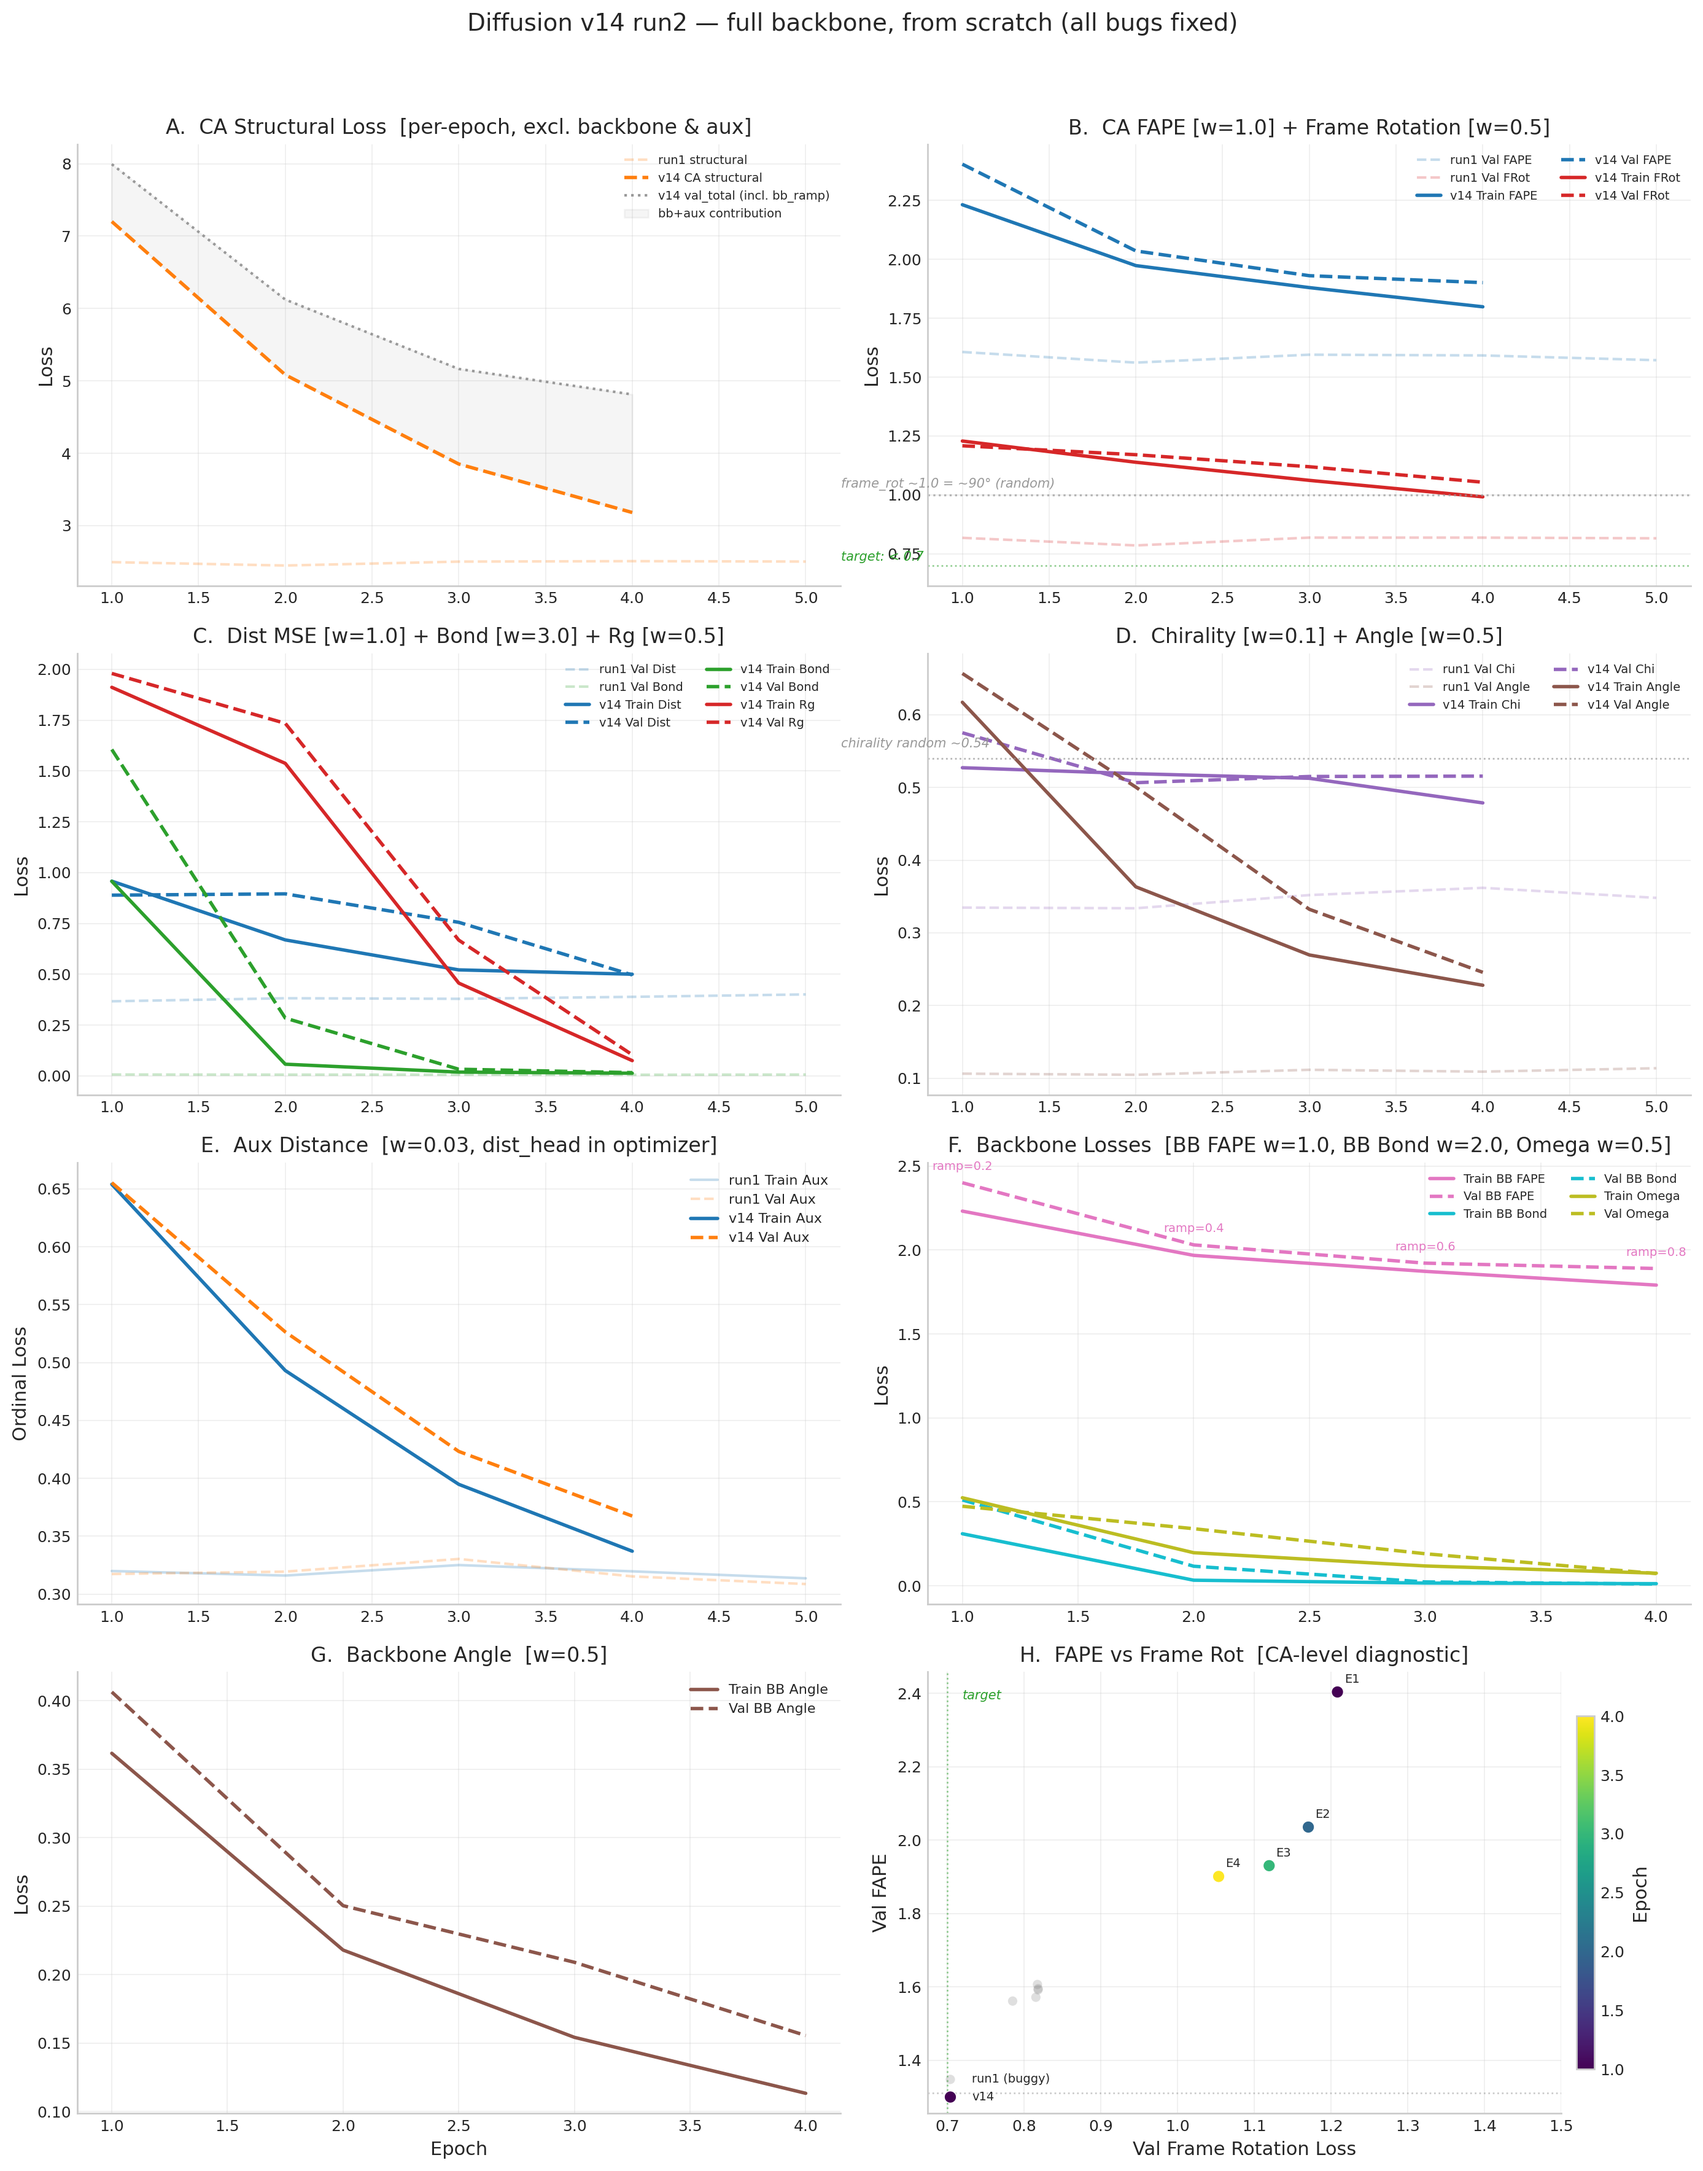
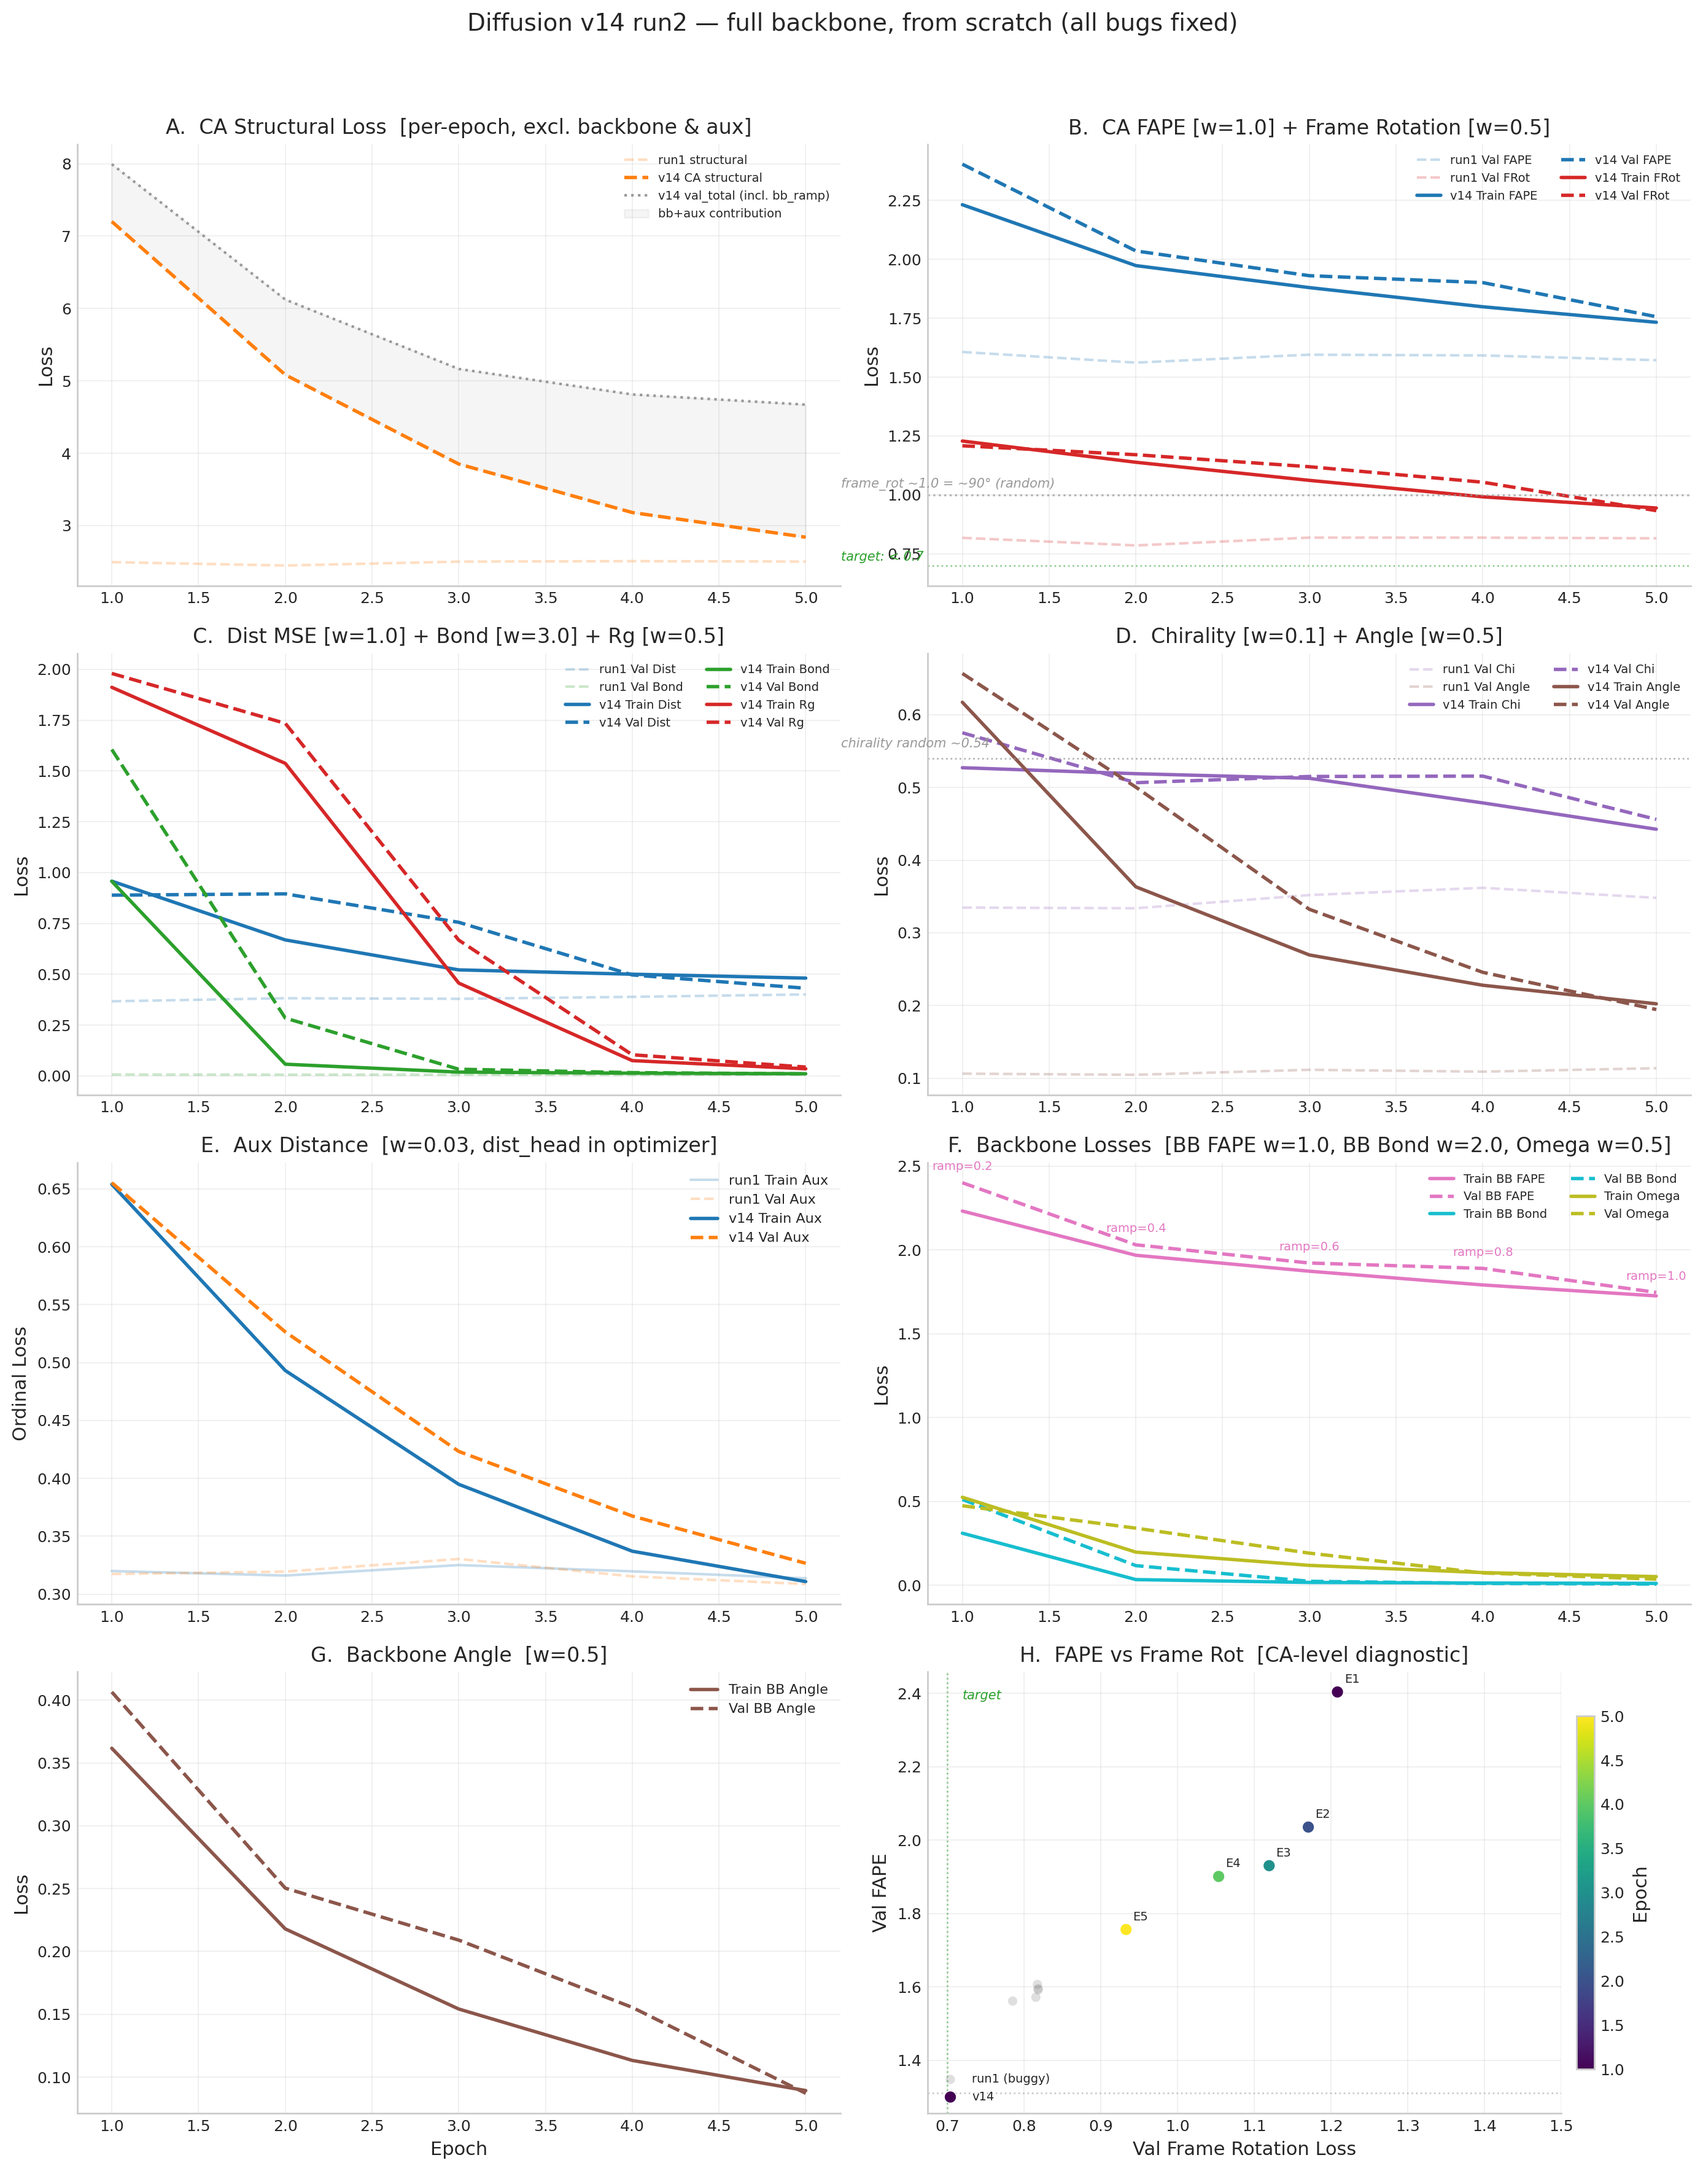
v14 run2 E5: structural 2.840, DDIM TM=0.111, warmup complete

diff --git a/minifold.html b/minifold.html
@@ -680,8 +680,8 @@
               <td><span class="tag tag-best">NEW BEST</span></td>
             </tr>
             <tr>
-              <td><strong>4</strong></td>
-              <td style="color: #2ca02c;"><strong>3.181</strong></td>
+              <td>4</td>
+              <td>3.181</td>
               <td>1.901</td>
               <td>1.054</td>
               <td>0.497</td>
@@ -689,6 +689,18 @@
               <td>0.010</td>
               <td>0.073</td>
               <td>&mdash;</td>
+              <td><span class="tag tag-best">NEW BEST</span></td>
+            </tr>
+            <tr>
+              <td><strong>5</strong></td>
+              <td style="color: #2ca02c;"><strong>2.840</strong></td>
+              <td>1.756</td>
+              <td>0.933</td>
+              <td>0.432</td>
+              <td>1.747</td>
+              <td>0.007</td>
+              <td>0.036</td>
+              <td>0.111</td>
               <td><span class="tag tag-best">NEW BEST</span></td>
             </tr>
           </tbody>
@@ -727,8 +739,8 @@
           <li>NaN skip zeroed good accumulated gradients</li>
         </ol>
         <p style="font-size: 0.92em; line-height: 1.6;">
-          All bugs now fixed. Patience now tracks CA-only structural loss. Training from v13 init weights.
-          New Ramachandran plots will be generated after enough epochs.
+          All bugs now fixed. Patience now tracks CA-only structural loss. Training from scratch (no v13 init).
+          E5 DDIM: BB-RMSD=16.02&Aring; &mdash; early but improving. Warmup complete, LR at peak 2e-5.
         </p>
       </div>
 
